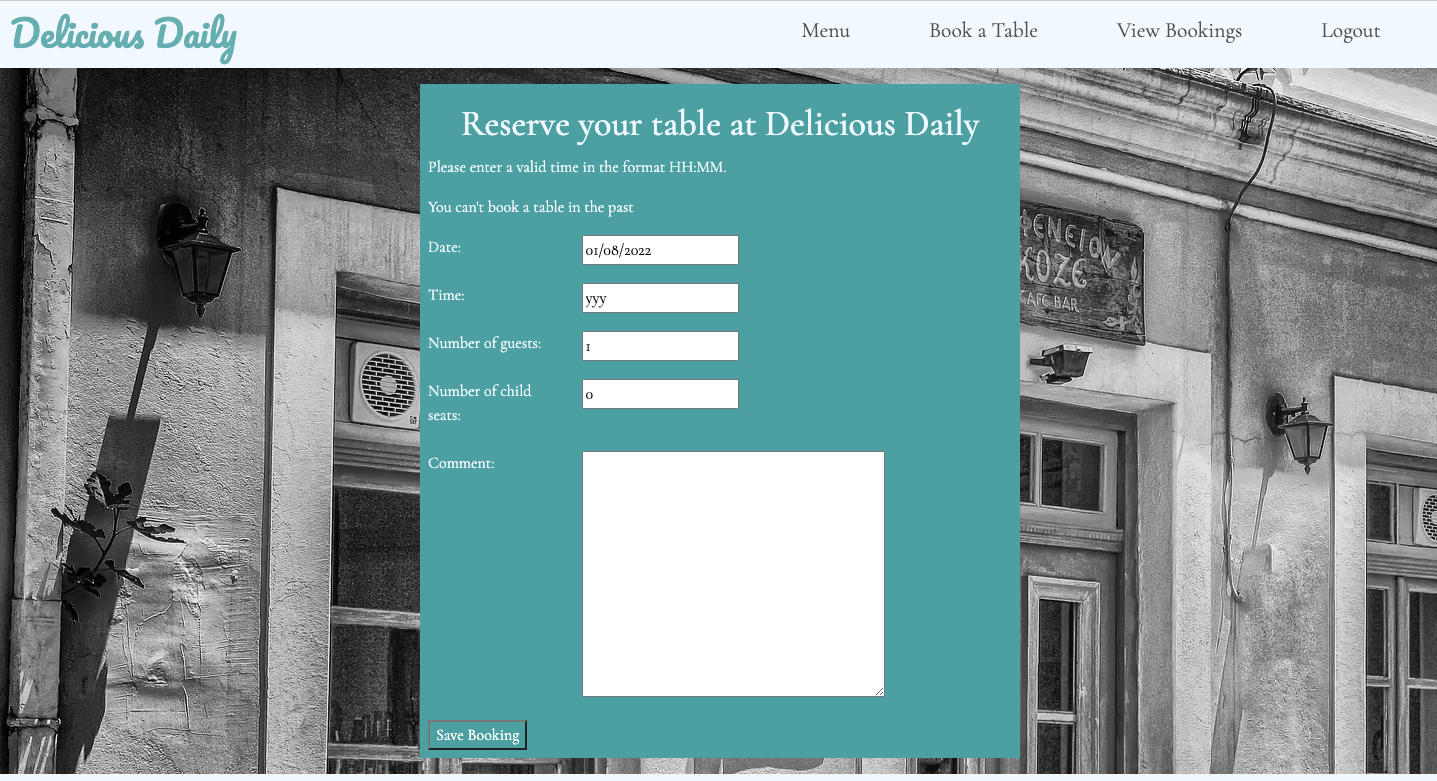
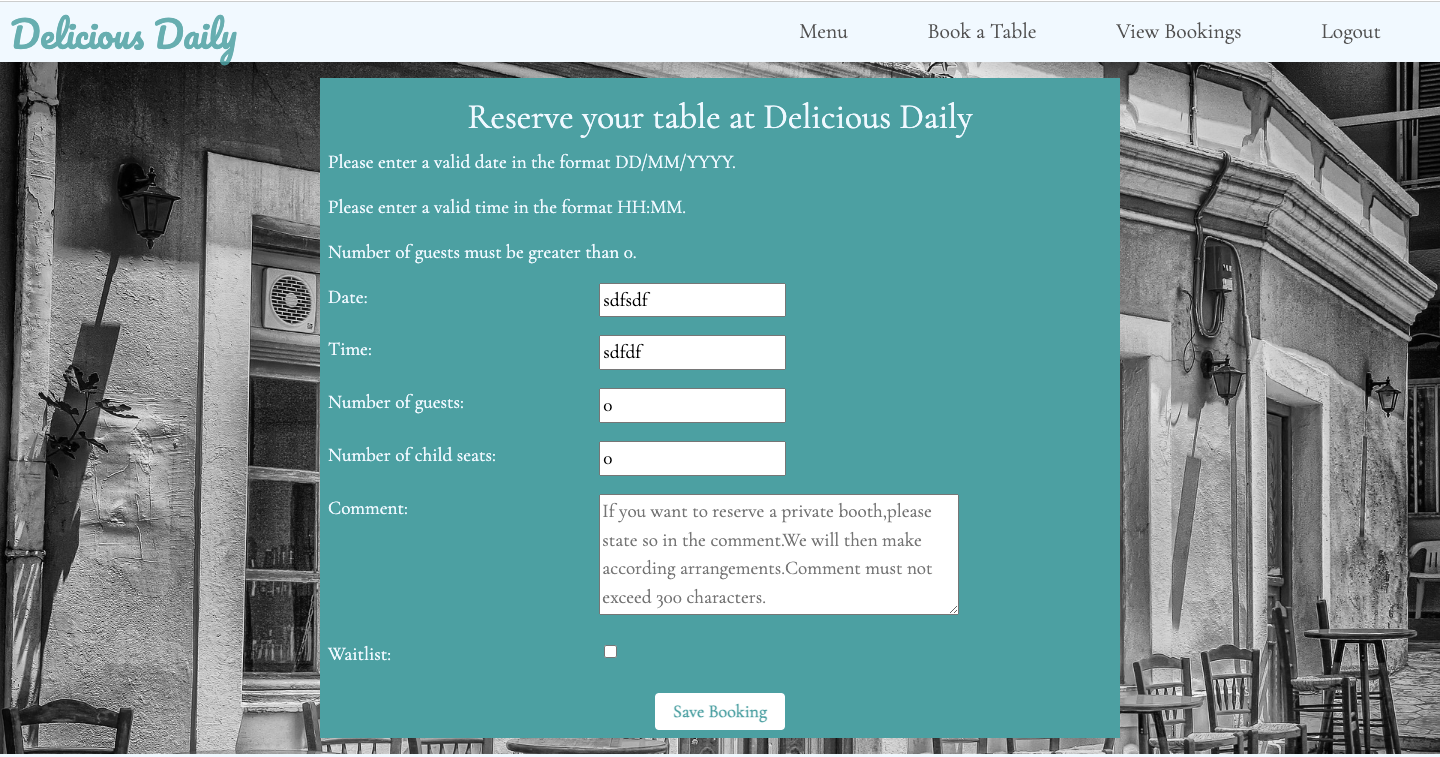
Read me file edited and information 24hrs prior to booking informed about waitlist status added to waitlist confirmed template

diff --git a/templates/tablebooking/waitlist_confirmed.html b/templates/tablebooking/waitlist_confirmed.html
@@ -7,7 +7,7 @@
     <div class="cont_sub_fill col-md-8 mt-5 offset-md-2">
       <!-- User is informed that they were waitlisted successfully. --> 
       <form method="post">{% csrf_token %}
-        <p>Thank you for booking with us. We are happy to confirm that you have been waitlisted.</p>
+        <p>Thank you for booking with us. We are happy to confirm that you have been waitlisted. You will be informed the latest 24hrs prior to your booking if it is possible.</p>
         {{ form }}
       </form>
     </div>

diff --git a/README.md b/README.md
@@ -364,29 +364,44 @@ The form validation checks if:
 * The number of guests is bigger than 0
 * The comment is no more than 300 characters
 
-![Signup Form](/static/images/readme/features/data_validation_form.png "Sign up")
+![Data Validation Form](/static/images/readme/features/data_validation_form.png "Data Validation form")
 
 #### Double Booking
 The user is informed in case there is no table available for the requested date, time and number of guests.
 
 In case there is no free table the user can optionally tick the waitlist checkbox, to be waitlisted. The user is then directed to the waitlisted confirmation page. This feature was not included in the initial wireframing, because my mentor advised me to add this feature only if there is time for it. (as already eleborated above.)
 
+![Double Booking Check](/static/images/readme/features/double_booking.png "Double Booking Check")
+
 ### Read table booking
-When clicking the "view bookings" button the user can check all bookings for future dates and today they did (past reservations are filtered and not shown). In case there aren't any bookings yet the user is informed through a message. If there are bookings listed the user is free to manage the booking or delete it through the provided buttons.
+When clicking the "view bookings" button the user can check all their future bookings from today (past reservations are filtered and not shown). In case there aren't any bookings yet, the user is informed through a message. If there are bookings listed the user is free to manage the booking or delete it through the provided buttons.
 Many table booking forms are just basic contact forms sending the restaurant email for reservation requests. But Delicious Daily offers a database-based solution that allows users to not only book but also manage and delete their bookings easily and fast.
 
-
+![List table bookings new design](/static/images/readme/testing/5_userstory/a5.1.png "List table bookings new design")
 
 
 ### Update and delete table booking 
-Sometimes plans change and the user needs to update or delete their booking. If the reservation request was send via a contact form the user would be required to write an email or call. If the phone is busy or the restaurant closed at the time this easy task of updating or deleting a booking can be tedious. Not with Delicious Daily. Here each customer can manage their reservations themselves giving them maximum flexibility and ease-of-access. 
-When updating the booking, the user is required to update the data he or she already entered in the form and then pressing the button update. An immediate message confirms the changes.
-When deleting a booking, the user is requried to press the according button in the actions column of the table listing all reservations. The user is then asked once more if he or she is sure they want to cancel. Then in a last step the cancellation is confirmed.
+Sometimes plans change and the user needs to update or delete their booking. If the reservation request was send via a contact form the user would be required to write an email or call. If the phone is busy or the restaurant is closed at the time this easy task of updating or deleting a booking can be tedious. 
+
+Not with Delicious Daily. Here each customer can manage their reservations themselves giving them maximum flexibility and ease-of-access. 
+When updating the booking, the user is required to update the input data in the form and then pressing the button update. An immediate message confirms the changes.
+
+When deleting a booking, the user is requried to press the according button in the actions row of the table. The user is then asked once more if he or she is sure they want to cancel. Then in a last step the cancellation is confirmed.
+
+![Are you sure you want to delete?](/static/images/readme/features/sure_you_want_to_delete.png "Are you sure you want to delete?")
+
+![Delted successfully](/static/images/readme/features/delete_confirm.png "Delted successfully")
 
 ## USP
 
 ### Child Seat Feature
 Families don't have to worry whether their little ones will have their own child seats available at the restaurant, because they can be booked with the table - individually and easily. The information about required child seats is also passed to the restaurant admin and therefore a shortage is made visible fast and can be acted on.
+
+### Private Booth
+In the comments section the user can ask for a private then the restaurant manager can arrange a more secluded spot for the reserved table.
+
+### Waitlisted
+In case there are no free tables for a certain date and time, the user is informated about the option of a waiting list. By tickng waitlist in the reservation form, the reservation is saved with the addtional information "waitlisted yes". This information the user can see in his reservation list. This way the user still has the chance of getting a table in case somebody else cancels.
 
 
 # Technologies Used
